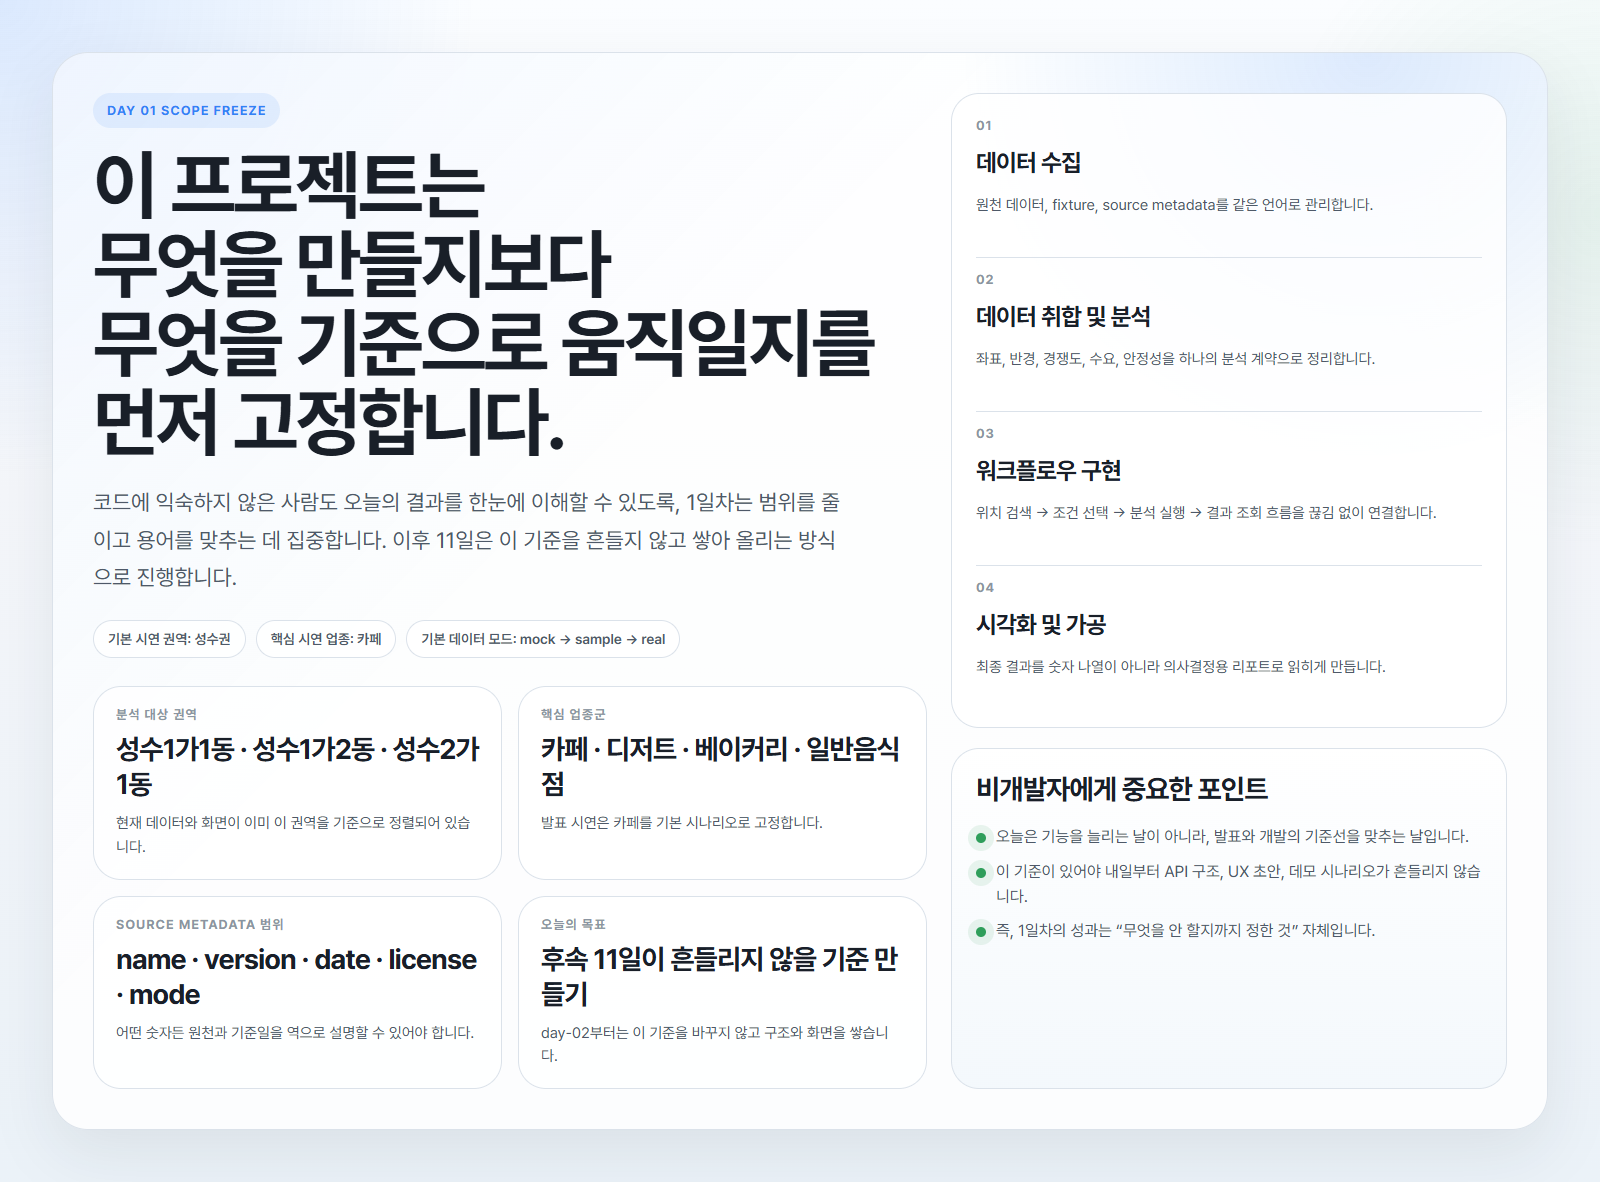
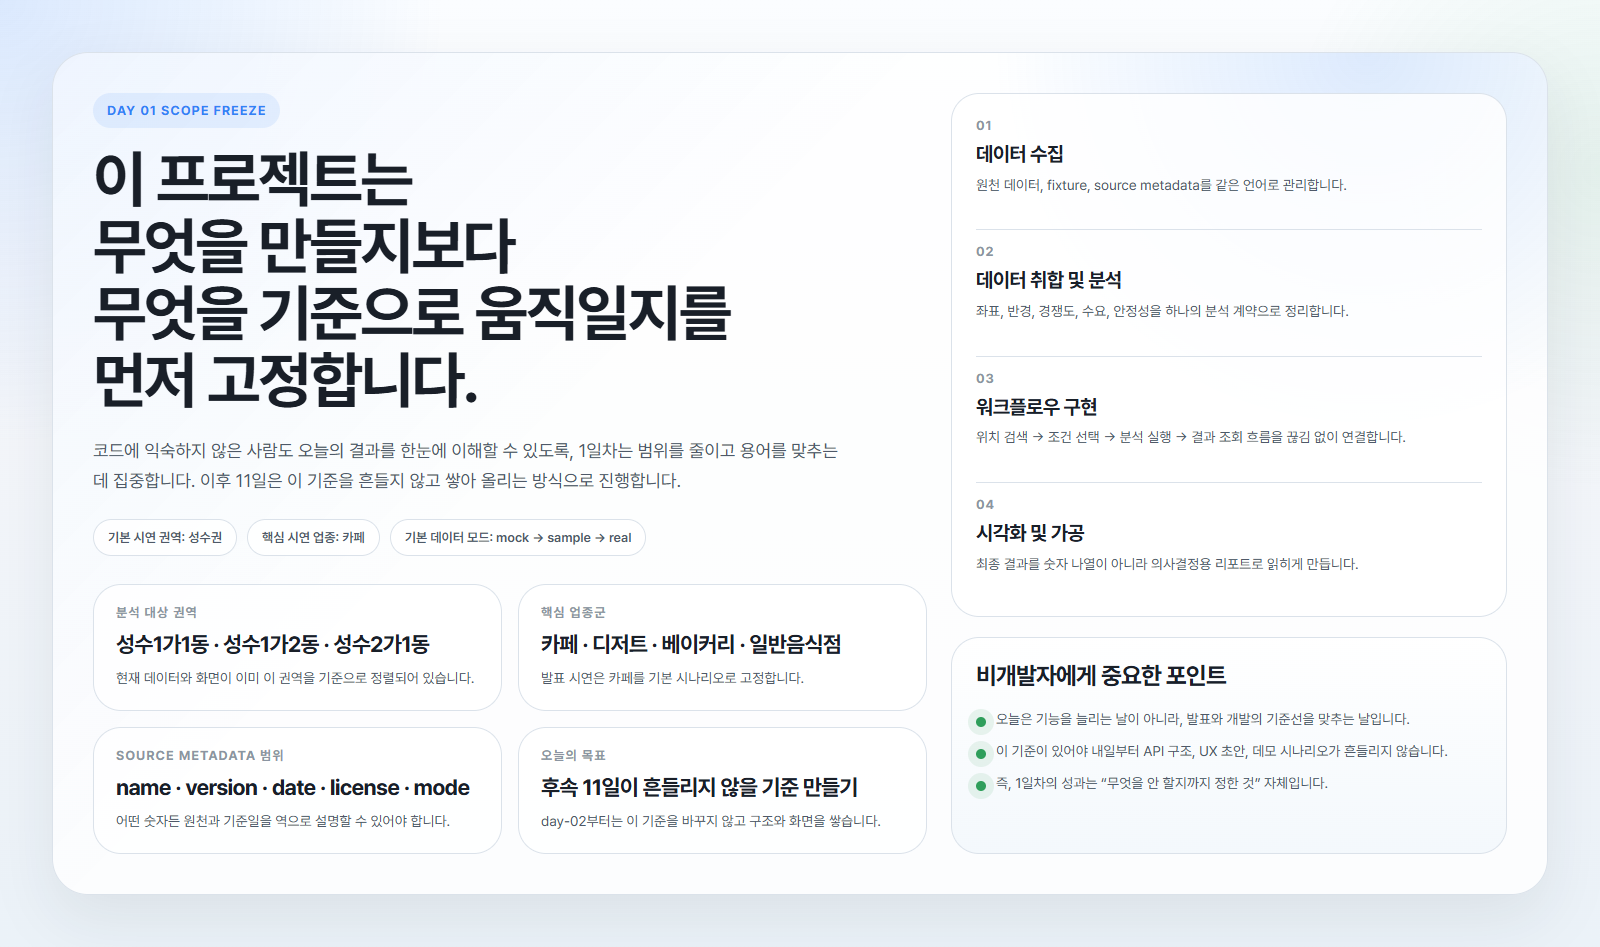
adjust day-01 poster typography

diff --git a/docs/assets/day-01-scope-freeze-poster.html b/docs/assets/day-01-scope-freeze-poster.html
@@ -84,8 +84,8 @@
 
       h1 {
         margin: 18px 0 0;
-        font-size: 76px;
-        line-height: 1.04;
+        font-size: 62px;
+        line-height: 1.08;
         letter-spacing: -0.04em;
       }
 
@@ -93,8 +93,8 @@
         max-width: 760px;
         margin: 22px 0 0;
         color: var(--text-secondary);
-        font-size: 22px;
-        line-height: 1.7;
+        font-size: 18px;
+        line-height: 1.65;
       }
 
       .chips {
@@ -112,7 +112,7 @@
         border-radius: 999px;
         background: rgba(255, 255, 255, 0.84);
         color: var(--text-secondary);
-        font-size: 14px;
+        font-size: 13px;
         font-weight: 600;
       }
 
@@ -132,7 +132,7 @@
       .story-card h2,
       .note-card h2 {
         margin: 0;
-        font-size: 28px;
+        font-size: 24px;
         line-height: 1.2;
         letter-spacing: -0.03em;
       }
@@ -141,7 +141,7 @@
       .note-card p {
         margin: 14px 0 0;
         color: var(--text-secondary);
-        font-size: 17px;
+        font-size: 15px;
         line-height: 1.65;
       }
 
@@ -174,15 +174,15 @@
       .metric-card strong {
         display: block;
         margin-top: 10px;
-        font-size: 28px;
-        line-height: 1.25;
+        font-size: 22px;
+        line-height: 1.28;
         letter-spacing: -0.03em;
       }
 
       .metric-card p {
         margin: 10px 0 0;
         color: var(--text-secondary);
-        font-size: 15px;
+        font-size: 14px;
         line-height: 1.55;
       }
 
@@ -205,7 +205,7 @@
       }
 
       .flow-step strong {
-        font-size: 24px;
+        font-size: 20px;
         line-height: 1.2;
         letter-spacing: -0.03em;
       }
@@ -213,7 +213,7 @@
       .flow-step p {
         margin: 0;
         color: var(--text-secondary);
-        font-size: 15px;
+        font-size: 14px;
         line-height: 1.55;
       }
 
@@ -234,7 +234,7 @@
         gap: 10px;
         align-items: flex-start;
         color: var(--text-secondary);
-        font-size: 16px;
+        font-size: 14px;
         line-height: 1.55;
       }
 